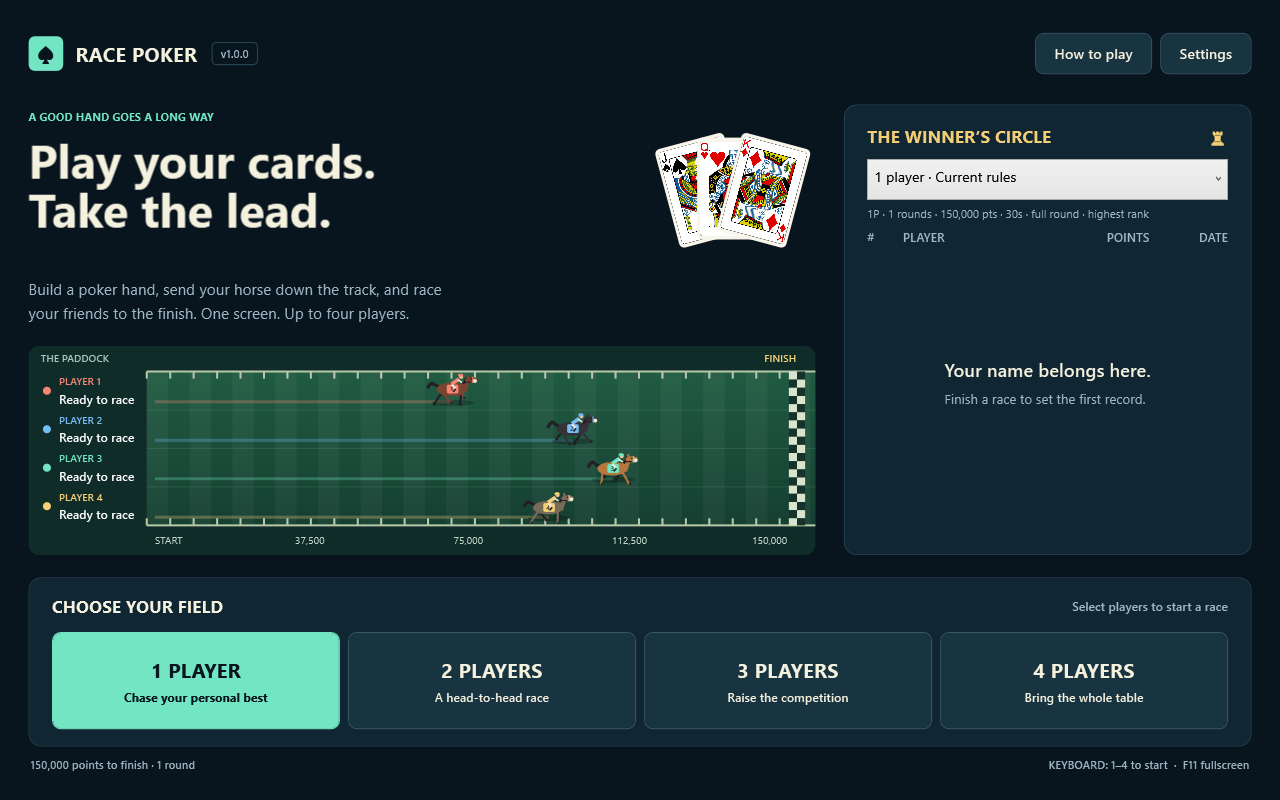
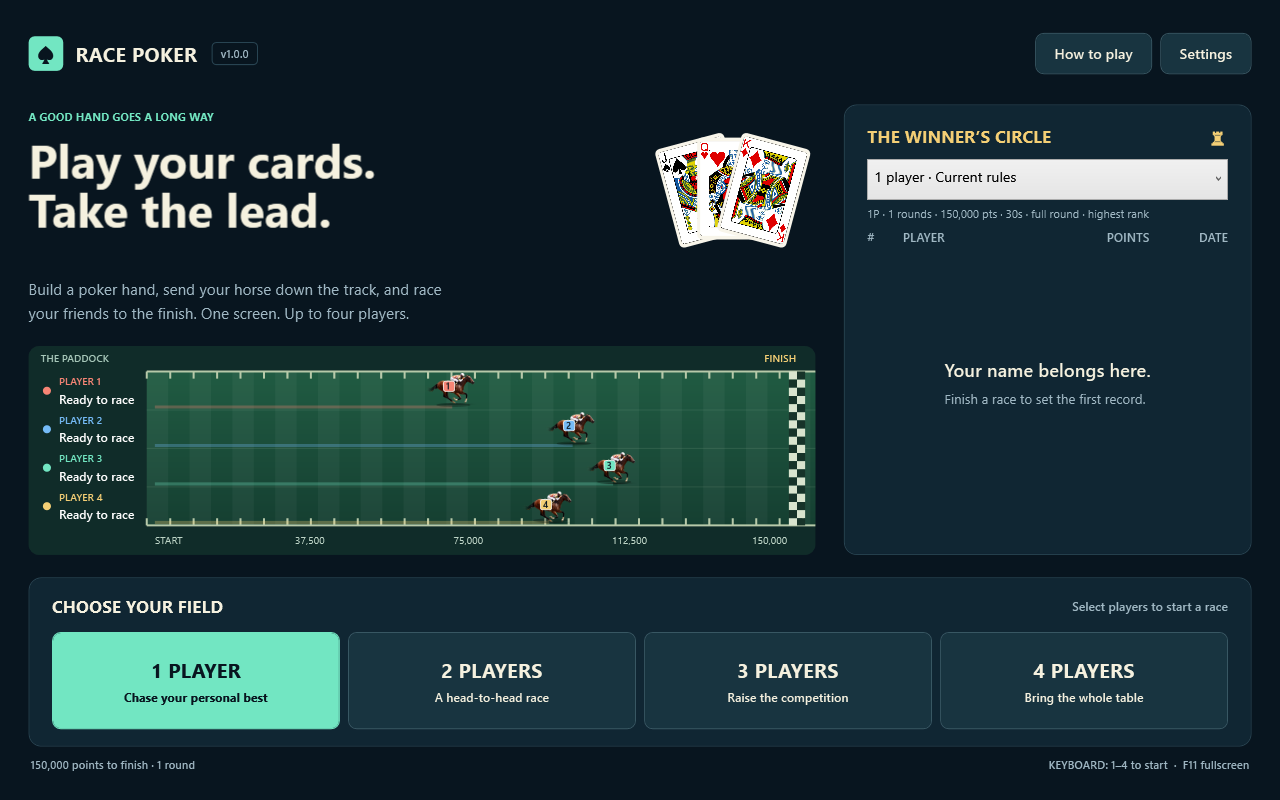
Refresh horse visuals and release publishing
Swap the racetrack's hand-drawn horses for the packaged racing image, adjust sizing/shadows for the new art, and update verification/screenshots to cover the larger render. The release workflow now reuses an existing GitHub release by replacing the executable asset without overwriting the release notes, title, or prerelease settings, and the README documents that behavior.

Changed region(s): [[0.125, 0.5625, 0.5, 0.6562], [0.125, 0.4688, 0.4688, 0.5625]]

diff --git a/src/RacePoker.Wpf/Controls/RaceTrack.cs b/src/RacePoker.Wpf/Controls/RaceTrack.cs
@@ -4,6 +4,7 @@ using System.Diagnostics;
 using System.Globalization;
 using System.Windows;
 using System.Windows.Media;
+using System.Windows.Media.Imaging;
 using RacePoker.Wpf.ViewModels;
 
 namespace RacePoker.Wpf.Controls;
@@ -29,6 +30,7 @@ public sealed class RaceTrack : FrameworkElement
     public bool IsDemo { get => (bool)GetValue(IsDemoProperty); set => SetValue(IsDemoProperty, value); }
     public bool UseSymbol { get => (bool)GetValue(UseSymbolProperty); set => SetValue(UseSymbolProperty, value); }
 
+    private static readonly BitmapSource HorseImage = LoadHorseImage();
     private readonly Stopwatch _clock = Stopwatch.StartNew();
     private readonly List<SeatViewModel> _observed = new();
     private double _lastFrame;
@@ -36,6 +38,7 @@ public sealed class RaceTrack : FrameworkElement
 
     public RaceTrack()
     {
+        RenderOptions.SetBitmapScalingMode(this, BitmapScalingMode.HighQuality);
         Loaded += (_, _) => { ObserveSeats(); CompositionTarget.Rendering += OnFrame; };
         Unloaded += (_, _) => { CompositionTarget.Rendering -= OnFrame; UnobserveSeats(); };
         IsVisibleChanged += (_, _) => InvalidateVisual();
@@ -84,7 +87,8 @@ public sealed class RaceTrack : FrameworkElement
         const double labelWidth = 116, top = 25, bottom = 29;
         double laneHeight = (h - top - bottom) / count;
         double start = labelWidth + 8, finish = w - 26;
-        double horseHeight = Math.Min(72, laneHeight - 4), horseWidth = horseHeight * 1.54;
+        double horseHeight = Math.Min(96, laneHeight - 6);
+        double horseWidth = horseHeight * HorseImage.PixelWidth / HorseImage.PixelHeight;
         double travel = Math.Max(0, finish - start - horseWidth - 4);
         dc.DrawRoundedRectangle(Brush("#102C29"), null, new Rect(0, 0, w, h), 10, 10);
         dc.DrawRectangle(new LinearGradientBrush(Color.FromRgb(32, 91, 66), Color.FromRgb(21, 63, 49), 90), null, new Rect(labelWidth, top, w - labelWidth, h - top - bottom));
@@ -118,9 +122,11 @@ public sealed class RaceTrack : FrameworkElement
             double x = start + travel * fraction;
             bool moving = IsDemo || (seat?.IsTurnTransitioning == true && seat.IsActiveSeat);
             double bob = moving ? Math.Sin(seconds * 18 + i) * 1.5 : 0;
-            dc.DrawLine(new Pen(new SolidColorBrush(Color.FromArgb(75, Colors[id % 4].R, Colors[id % 4].G, Colors[id % 4].B)), 3), new Point(start, y + laneHeight - 8), new Point(x + horseWidth / 2, y + laneHeight - 8));
-            dc.DrawEllipse(Brush("#40000000"), null, new Point(x + horseWidth / 2, y + laneHeight - 7), horseWidth * 0.4, 3);
-            double horseY = y + (laneHeight - horseHeight) / 2 + bob;
+            double baseY = y + (laneHeight - horseHeight) / 2;
+            double groundY = baseY + horseHeight * 0.94;
+            dc.DrawLine(new Pen(new SolidColorBrush(Color.FromArgb(75, Colors[id % 4].R, Colors[id % 4].G, Colors[id % 4].B)), 3), new Point(start, groundY + 2), new Point(x + horseWidth / 2, groundY + 2));
+            dc.DrawEllipse(Brush("#40000000"), null, new Point(x + horseWidth * 0.52, groundY), horseWidth * 0.32, Math.Max(2, horseHeight * 0.035));
+            double horseY = baseY + bob;
             if (UseSymbol)
                 Text(dc, "♞", x + 8, horseY - 8, horseHeight, color, true);
             else
@@ -139,63 +145,33 @@ public sealed class RaceTrack : FrameworkElement
             Text(dc, score == 0 ? "START" : score.ToString("N0"), Math.Clamp(x - 18, start, w - 62), h - 21, 10, Brush("#BDD4C6"));
         }
     }
-    private static void DrawHorse(DrawingContext dc, double x, double y, double width, double height, Brush saddle, int id, double gait, bool moving)
+    private static BitmapSource LoadHorseImage()
     {
-        dc.PushTransform(new TranslateTransform(x, y));
-        dc.PushTransform(new ScaleTransform(width / 100, height / 66));
-        var coats = new[] { "#7B4430", "#343237", "#B4773D", "#786B59" };
-        var coat = Brush(coats[id % coats.Length]);
-        var dark = Brush("#211E25");
-        // Four jointed legs alternate between extension and a tucked recovery stroke.
-        for (int leg = 0; leg < 4; leg++)
-        {
-            double hipX = leg < 2 ? 30 : 67;
-            double phase = gait + (leg % 2) * Math.PI + (leg < 2 ? 1.1 : 0);
-            double stride = moving ? Math.Sin(phase) * 16 : (leg % 2 == 0 ? -5 : 5);
-            var hip = new Point(hipX, 39);
-            var knee = new Point(hipX + stride * 0.5, 50 - (moving ? Math.Max(0, Math.Cos(phase)) * 7 : 0));
-            var hoof = new Point(hipX + stride, 62 - (moving ? Math.Max(0, Math.Cos(phase)) * 13 : 0));
-            var pen = new Pen(leg % 2 == 0 ? dark : coat, 4) { StartLineCap = PenLineCap.Round, EndLineCap = PenLineCap.Round };
-            dc.DrawLine(pen, hip, knee);
-            dc.DrawLine(pen, knee, hoof);
-            dc.DrawLine(new Pen(dark, 4), hoof, new Point(hoof.X + 4, hoof.Y));
-        }
-        var tail = new StreamGeometry();
-        using (var g = tail.Open())
-        {
-            g.BeginFigure(new Point(24, 28), false, false);
-            g.BezierTo(new Point(10, 24), new Point(13, moving ? 15 + Math.Sin(gait) * 5 : 37), new Point(2, 31), true, false);
-        }
-        dc.DrawGeometry(null, new Pen(dark, 6), tail);
-        dc.DrawEllipse(coat, null, new Point(48, 33), 28, 13);
-        var neck = new StreamGeometry();
-        using (var g = neck.Open())
-        {
-            g.BeginFigure(new Point(62, 31), true, true);
-            g.LineTo(new Point(74, 10), true, false);
-            g.LineTo(new Point(84, 13), true, false);
-            g.LineTo(new Point(76, 39), true, false);
-        }
-        dc.DrawGeometry(coat, null, neck);
-        dc.DrawLine(new Pen(dark, 4), new Point(70, 23), new Point(76, 10));
-        dc.DrawEllipse(coat, null, new Point(85, 15), 12, 6);
-        dc.DrawLine(new Pen(coat, 4), new Point(79, 11), new Point(78, 5));
-        dc.DrawEllipse(Brush("#F4E7CF"), null, new Point(92, 17), 4, 4);
-        dc.DrawEllipse(dark, null, new Point(85, 13), 1.5, 1.5);
-        dc.DrawLine(new Pen(saddle, 2), new Point(88, 9), new Point(88, 21));
-        dc.DrawRoundedRectangle(saddle, null, new Rect(39, 24, 22, 17), 3, 3);
-        dc.DrawLine(new Pen(dark, 2), new Point(85, 19), new Point(66, 20));
-        // The jockey crouches over the saddle, moving with the horse's stride.
-        dc.DrawLine(new Pen(saddle, 7), new Point(48, 23), new Point(62, 13));
-        dc.DrawEllipse(Brush("#EAC5A2"), null, new Point(66, 9), 4, 4);
-        dc.DrawEllipse(saddle, null, new Point(65, 6), 5, 3);
-        dc.DrawLine(new Pen(Brush("#ECE7D8"), 3), new Point(60, 15), new Point(68, 20));
-        dc.DrawLine(new Pen(Brush("#ECE7D8"), 4), new Point(48, 24), new Point(56, 32));
-        dc.DrawLine(new Pen(dark, 3), new Point(56, 32), new Point(51, 38));
-        var number = new FormattedText((id + 1).ToString(), CultureInfo.InvariantCulture, FlowDirection.LeftToRight,
-            new Typeface("Segoe UI"), 12, dark, 1);
-        dc.DrawText(number, new Point(45, 24));
-        dc.Pop();
+        var image = new BitmapImage();
+        image.BeginInit();
+        image.UriSource = new Uri("pack://application:,,,/RacePoker.Wpf;component/Assets/horse-racing.png", UriKind.Absolute);
+        image.CacheOption = BitmapCacheOption.OnLoad;
+        image.EndInit();
+        image.Freeze();
+        return image;
+    }
+
+    private void DrawHorse(DrawingContext dc, double x, double y, double width, double height, Brush playerColor, int id, double gait, bool moving)
+    {
+        // Use the supplied transparent photograph, retaining its natural proportions.
+        double pitch = moving ? Math.Sin(gait) * 1.2 : 0;
+        dc.PushTransform(new RotateTransform(pitch, x + width * 0.5, y + height * 0.85));
+        dc.DrawImage(HorseImage, new Rect(x, y, width, height));
+
+        // A small saddle marker connects each horse to its player's lane color.
+        double badgeHeight = Math.Clamp(height * 0.22, 10, 18);
+        double badgeWidth = badgeHeight * 1.1;
+        double badgeX = x + width * 0.44 - badgeWidth / 2;
+        double badgeY = y + height * 0.25;
+        dc.DrawRoundedRectangle(playerColor, new Pen(Brush("#DCFFFFFF"), 0.8),
+            new Rect(badgeX, badgeY, badgeWidth, badgeHeight), 2, 2);
+        Text(dc, (id + 1).ToString(CultureInfo.InvariantCulture),
+            badgeX + badgeWidth * 0.24, badgeY - 1, badgeHeight * 0.85, Brush("#08151F"), true);
         dc.Pop();
     }
 

diff --git a/tools/VerifyGame/Program.cs b/tools/VerifyGame/Program.cs
@@ -102,6 +102,7 @@ class Program
         vm.HandleKeyDown(Key.Space);
         Assert(engine.Phase == GamePhase.Picking && engine.Seats.Count(s => s.Status == SeatStatus.Joined) == 1, "Space starts solo replay");
         Render(game, "solo.png");
+        Render(game, "solo-large.png", 1920, 1080);
         Render(game, "compact.png", 960, 600);
         for (int card = 0; card < 5; card++) vm.HandleKeyDown(Key.D1);
         engine.Tick(TimeSpan.FromSeconds(0.1)); engine.Tick(TimeSpan.FromSeconds(0.1)); vm.HandleKeyDown(Key.Enter);

diff --git a/README.md b/README.md
@@ -62,4 +62,4 @@ git tag v1.0.0
 git push origin v1.0.0
 ```
 
-The [Release workflow](.github/workflows/release.yml) tests the game, builds the single executable, and attaches it directly to a GitHub release. The tag sets the version shown in the game header. You can also run it from **Actions → Release → Run workflow** with an existing tag. No ZIP is needed.
+The [Release workflow](.github/workflows/release.yml) tests the game, builds the single executable, and attaches it directly to a GitHub release. The tag sets the version shown in the game header. You can also run it from **Actions → Release → Run workflow** with an existing tag. If its release already exists, the executable is uploaded or replaced while preserving the release’s notes and settings. No ZIP is needed.
